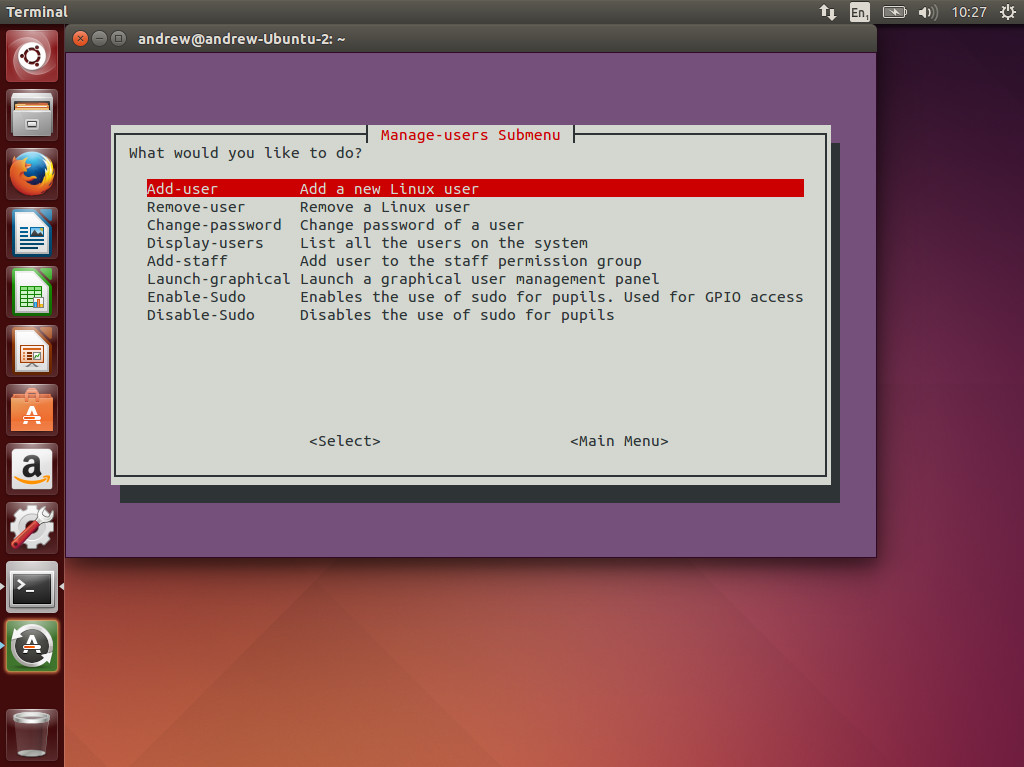
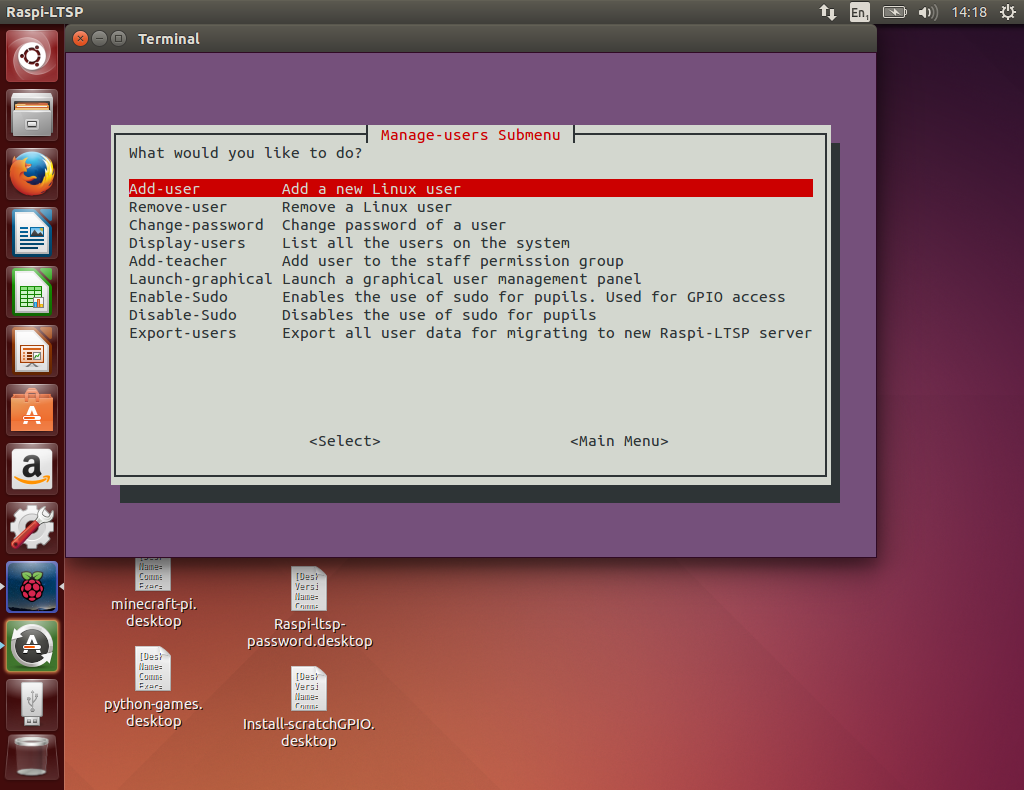
Added migration guide

diff --git a/manage-users/README.md b/manage-users/README.md
@@ -1,6 +1,6 @@
 Managing user accounts
 ----------------------
-![](../images/manage-users-menu.jpeg)
+![](../images/manage-users-menu.jpg)
 The Manage user users submenu contains all the tools for working with the users and groups on the system.
 Although there are graphical tools available that perform similar functions, it is much quicker using the built
 in tools.
@@ -12,3 +12,4 @@ Tools
 - [Deleting a user](deleting-users.md)  
 - [Changing a users password](change-password.md)  
 - [Userstanding staff and sudo options](staff-sudo.md)  
+- [Migrating user data (for moving to a new Raspi-LTSP server)](migration.md)

diff --git a/installation/getting-started.md b/installation/getting-started.md
@@ -23,4 +23,4 @@ Finally when the installation is complete you must copy the generated SD card bo
 1. [Installing RaspberryPi-LTSP](installing-raspi-ltsp.md)
 1. [Copying files to SD card](sd-card-copy.md)
 
-Once completed, you may want to change some of the other options in Raspi-LTSP, the full documentation list can be found
+Once completed, you may want to change some of the other options in Raspi-LTSP, the full documentation list can be found back on the [home page](../README.md).

diff --git a/README.md b/README.md
@@ -47,6 +47,7 @@ On top of this, an old desktop or laptop is required to run the server. It does 
   - [Deleting a user](manage-users/deleting-users.md)  
   - [Changing a users password](manage-users/change-password.md)  
   - [Userstanding staff and sudo options](manage-users/staff-sudo.md)  
+  - [Migrating user data (for moving to a new Raspi-LTSP server)](manage-users/migration.md)
 
 ##[General features](general-features.md)
 
